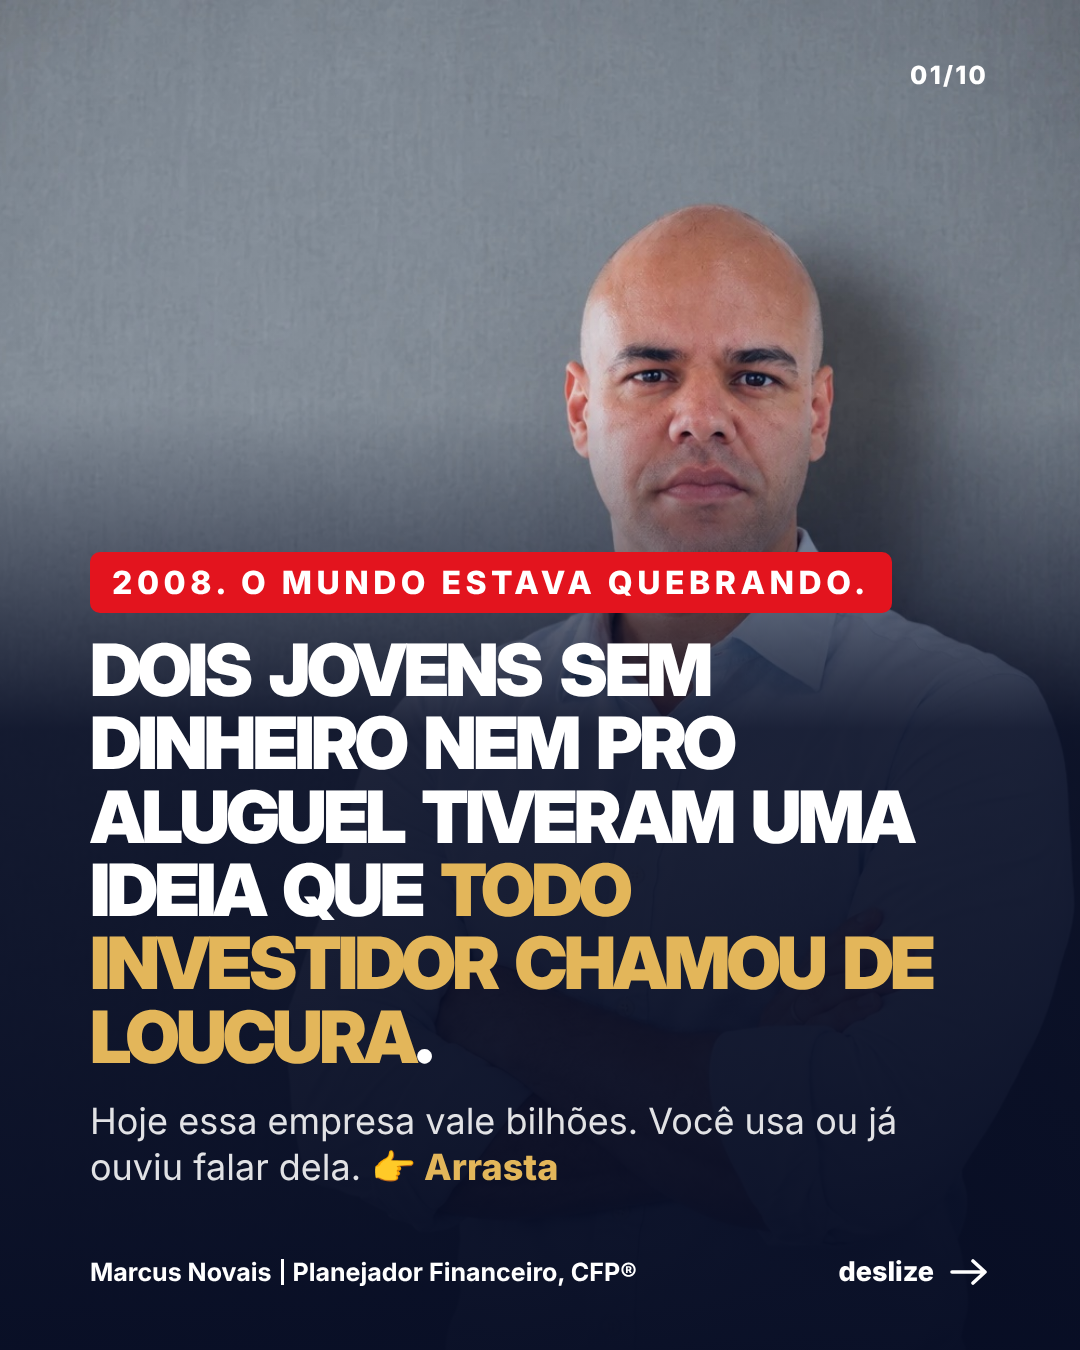
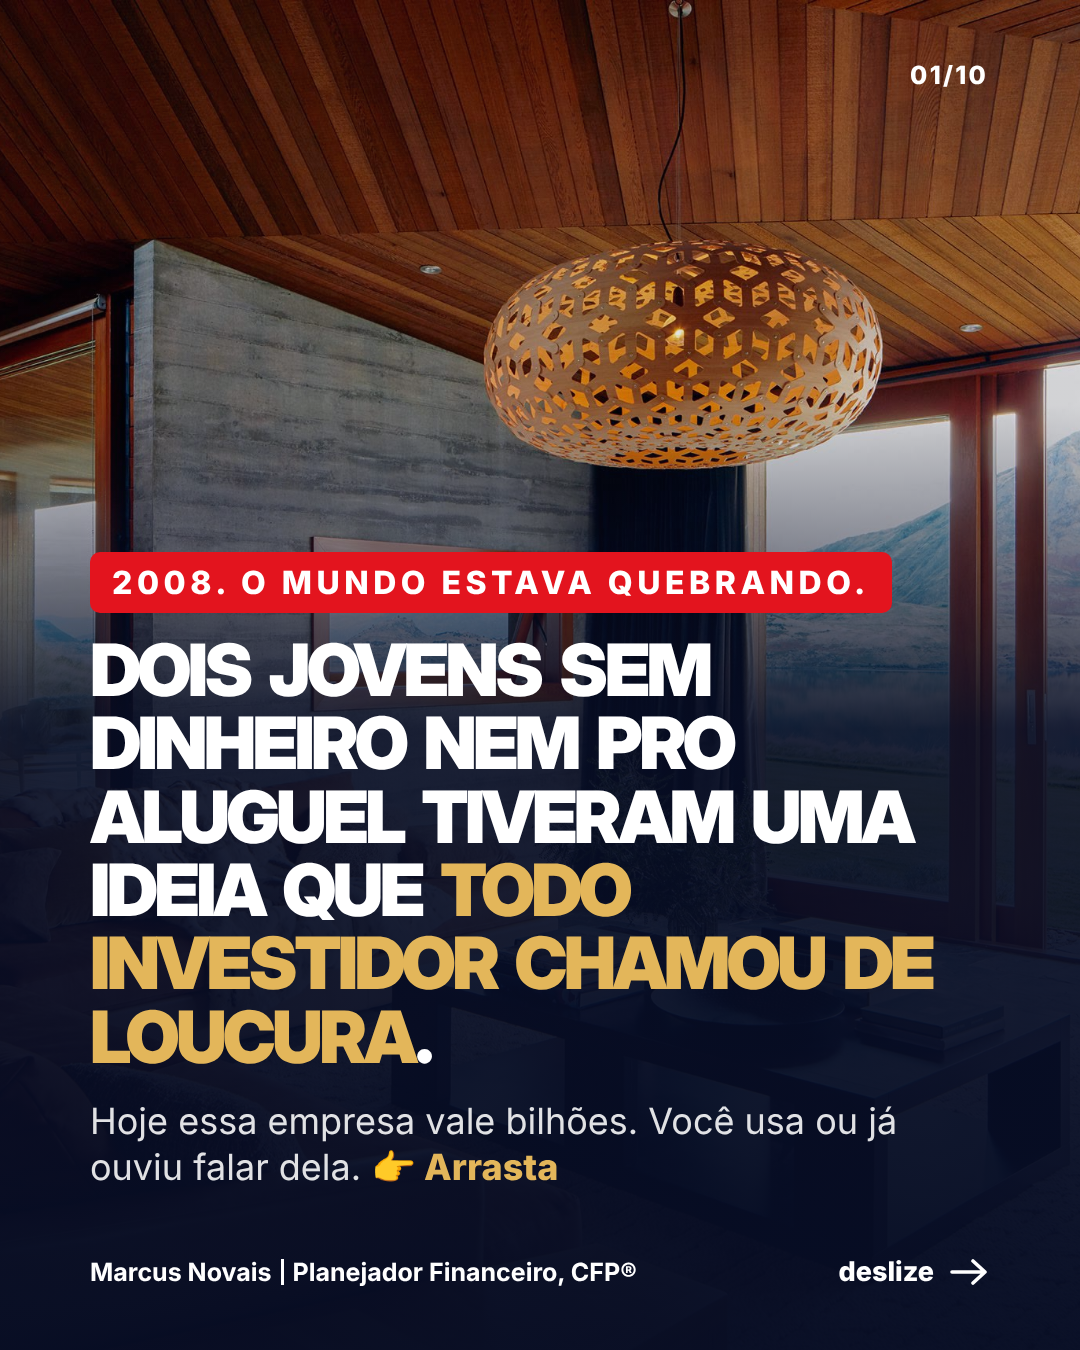
Carrossel Airbnb 2008: foto da sala na capa
Claude-Session: https://claude.ai/code/session_01JkBXj6tz5hpSkGAznkwYEm

diff --git a/carrossel-airbnb-2008/slides.html b/carrossel-airbnb-2008/slides.html
@@ -95,18 +95,18 @@
 <body>
 <script>
 const C={};   // créditos das fotos
-const HAS=new Set(['marcus','sala','colchao','entrevista','gebbia','nathan','chesky']);
+const HAS=new Set(['marcus','sf','sala','colchao','entrevista','gebbia','nathan','chesky']);
 const PH=(k,pos,extra)=>!HAS.has(k)?'':`<img src="img/${k}.jpg" style="object-position:${pos||'50% 50%'};${extra||''}">`;
 const S=[];
 // 1 capa (foto do Marcus)
-S.push({h:`<div class="bg">${PH('marcus','62% 20%')}</div>
+S.push({h:`<div class="bg">${PH('sala','58% 40%')}</div>
  <div class="shade" style="background:linear-gradient(180deg, rgba(7,13,36,.1) 0%, rgba(7,13,36,.1) 30%, rgba(7,13,36,.9) 54%, rgba(7,13,36,.98) 100%)"></div>
  <div class="page end"><div class="pill red">2008. O mundo estava quebrando.</div>
  <h1 style="font-size:72px">Dois jovens sem dinheiro nem pro aluguel tiveram uma ideia que <em>todo investidor chamou de loucura</em>.</h1>
  <p style="font-size:36px">Hoje essa empresa vale bilhões. Você usa ou já ouviu falar dela. <b class="g">👉 Arrasta</b></p></div>`});
 // 2 SF (claro, foto em cartão)
 S.push({light:1, h:`<div class="page" style="justify-content:flex-start; padding-top:130px">
- <div class="card" style="height:470px">${PH('sala','50% 50%')}</div>
+ <div class="card" style="height:470px">${PH('sf','50% 60%')}<span class="cred" data-c="sf"></span></div>
  <div class="pill" style="margin-top:34px">São Francisco, 2007</div>
  <h2 style="font-size:60px">O aluguel subiu. <em>E eles não tinham como pagar.</em></h2>
  <p style="font-size:34px">Dois designers recém-formados dividem um apartamento. Precisam de dinheiro rápido. Mas o que eles tinham em casa?</p></div>`});
